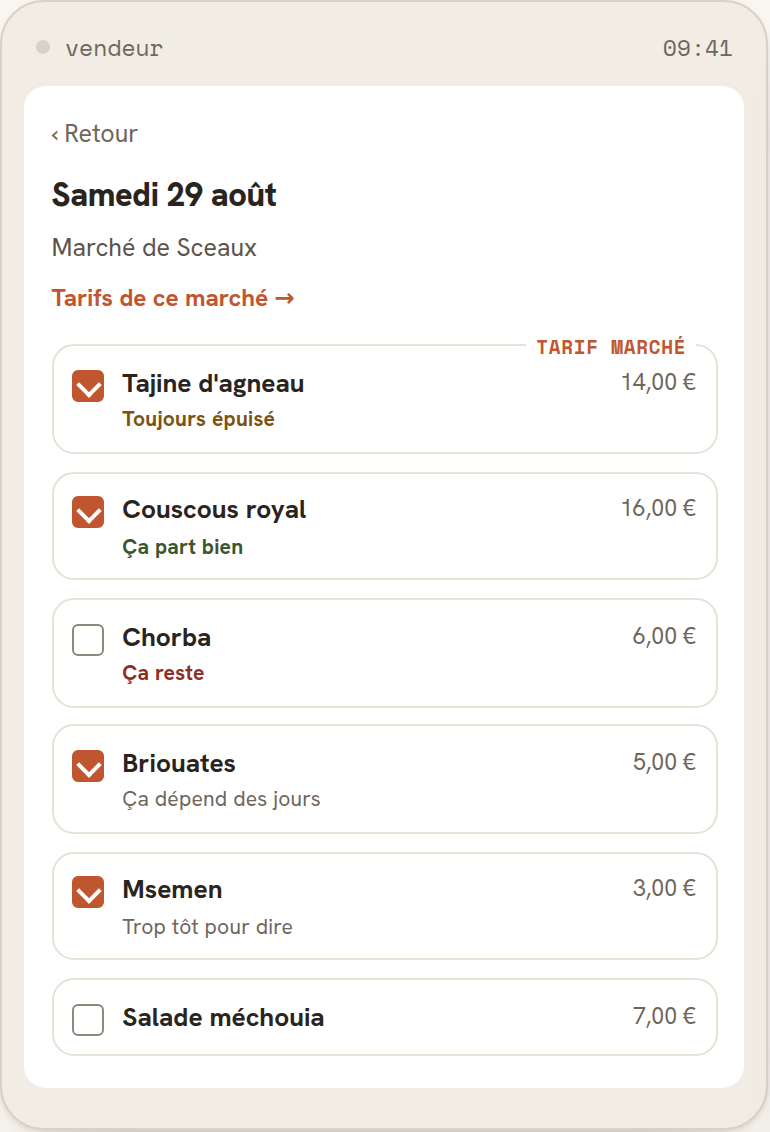
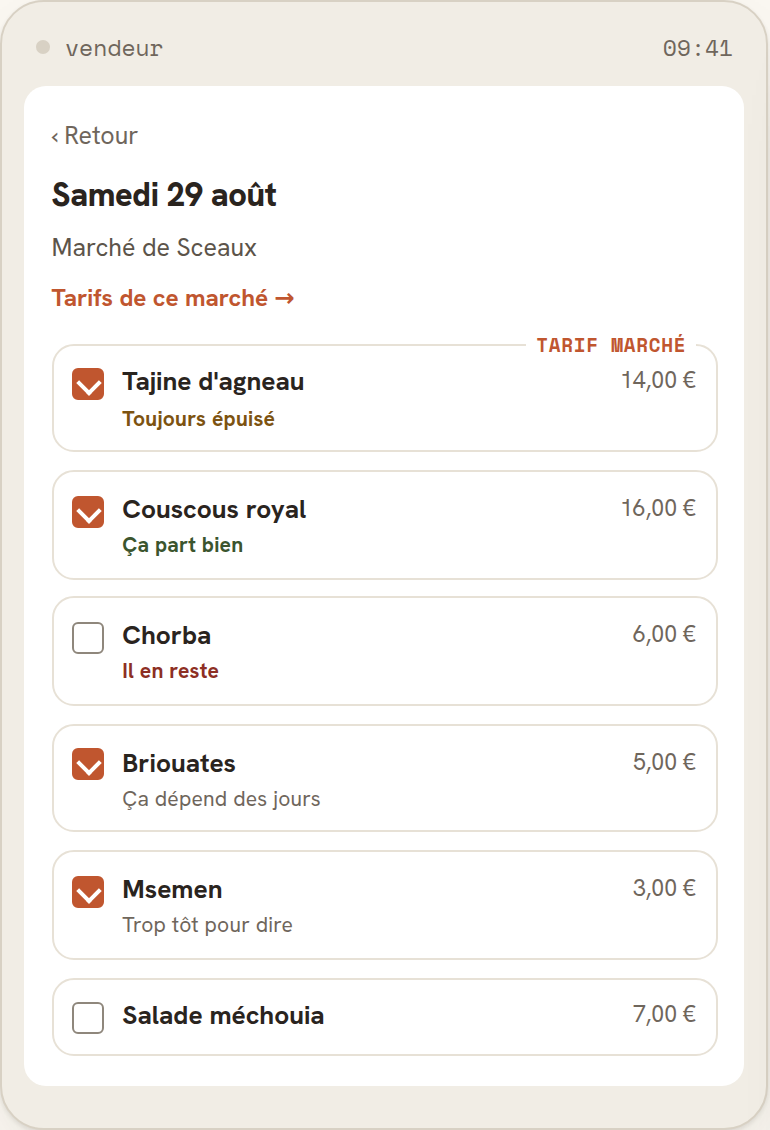
Rename the leftovers pile: Ça reste → Il en reste
Ça reste never named the thing it was about. Rester on its own reads as to
stay or to remain the same, so the heading could be taken for "it's still
fine" — the opposite of what it means — and it mentions no leftovers at all,
which are the entire fact. Il en reste is the sentence a vendor actually says
about a tray that came home, and en does the naming without repeating the dish.

The closed PileName union earned its keep: changing the name in pile.ts broke
the compile on the tone map in menu-editor.ts, so there was no way to ship the
copy half-renamed.

The short streak token stays Reste. It sits directly under the full phrase,
which is what makes the abbreviation learnable (decision 13), and the streak
is unbuilt anyway — it went with the deferred surfaces.

Design screens re-rendered rather than left contradicting the shipped copy;
the inlined woff2 held, so both faces are real in the PNGs.

Claude-Session: https://claude.ai/code/session_01T47hxcDBmopHNUoEhkVYLa

diff --git a/docs/design/ce-qui-se-vend-screens.html b/docs/design/ce-qui-se-vend-screens.html
@@ -309,7 +309,7 @@
                 <span class="box"></span>
                 <span class="name">Chorba</span>
                 <span class="price">6,00&nbsp;€</span>
-                <span class="hint hint-re">Ça reste</span>
+                <span class="hint hint-re">Il en reste</span>
               </li>
               <li class="row">
                 <span class="box on"></span>
@@ -381,7 +381,7 @@
             </div>
 
             <div class="pile p-reste">
-              <div class="pile-head"><span class="pile-name">Ça reste</span><span class="pile-count">1 plat</span></div>
+              <div class="pile-head"><span class="pile-name">Il en reste</span><span class="pile-count">1 plat</span></div>
               <div class="pile-rule"></div>
               <div class="dish">
                 <div class="dish-top"><span class="dish-name">Chorba</span><span class="dish-price">6,00&nbsp;€</span></div>
@@ -455,7 +455,7 @@
             <div class="pile p-reste" style="margin-top:.7rem">
               <div class="pile-rule"></div>
               <div class="dish">
-                <div class="market-line"><span class="mk">Marché d'Antony <span class="pr">· 12,50&nbsp;€</span></span><span class="vd" style="color:#8d2f24">Ça reste</span></div>
+                <div class="market-line"><span class="mk">Marché d'Antony <span class="pr">· 12,50&nbsp;€</span></span><span class="vd" style="color:#8d2f24">Il en reste</span></div>
                 <div class="streak">
                   <span class="chip c-re">Reste</span><span class="chip c-re">Reste</span><span class="chip c-bi">Bien</span><span class="chip c-re">Reste</span>
                   <span class="since">depuis le 19 juil.</span>

diff --git a/apps/vendor-frontend/src/app/market-days/menu-editor.spec.ts b/apps/vendor-frontend/src/app/market-days/menu-editor.spec.ts
@@ -303,8 +303,8 @@ describe('MenuEditor', () => {
   });
 
   // Moins bien vendu is a fair thing to tick once and a scolding thing to read down a
-  // column; Ça reste is what the vendor says out loud about a tray that came home.
-  it('calls a dish that mostly came home Ça reste', async () => {
+  // column; Il en reste is what the vendor says out loud about a tray that came home.
+  it('calls a dish that mostly came home Il en reste', async () => {
     await renderEditor((marketDays, catalogue, prices, record) => {
       marketDays.days.set([day()]);
       catalogue.items.set([item('item-1', 'Bourguignon')]);
@@ -313,7 +313,7 @@ describe('MenuEditor', () => {
       ]);
     });
 
-    expect(screen.getByText('Ça reste')).toBeTruthy();
+    expect(screen.getByText('Il en reste')).toBeTruthy();
   });
 
   // Not a failure to classify but a real finding: this dish rides on weather or crowd, and

diff --git a/apps/vendor-frontend/src/app/selling-record/pile.ts b/apps/vendor-frontend/src/app/selling-record/pile.ts
@@ -10,14 +10,14 @@ import { Bilan } from './selling-record';
 export type PileName =
   | 'Toujours épuisé'
   | 'Ça part bien'
-  | 'Ça reste'
+  | 'Il en reste'
   | 'Ça dépend des jours'
   | 'Trop tôt pour dire';
 
 const NAMES: Record<ItemOutcome, PileName> = {
   sold_out: 'Toujours épuisé',
   did_well: 'Ça part bien',
-  did_not_do_well: 'Ça reste',
+  did_not_do_well: 'Il en reste',
 };
 
 const ENOUGH_TO_CLAIM = 3;

diff --git a/apps/vendor-frontend/src/app/market-days/menu-editor.ts b/apps/vendor-frontend/src/app/market-days/menu-editor.ts
@@ -22,7 +22,7 @@ import { ReopenStand } from './reopen-stand';
 const TONES: Record<PileName, string> = {
   'Toujours épuisé': 'font-bold text-warn',
   'Ça part bien': 'font-bold text-success',
-  'Ça reste': 'font-bold text-danger',
+  'Il en reste': 'font-bold text-danger',
   'Ça dépend des jours': 'text-muted',
   'Trop tôt pour dire': 'text-muted',
 };

diff --git a/docs/BILAN-RETROSPECTIVE-PLAN.md b/docs/BILAN-RETROSPECTIVE-PLAN.md
@@ -64,7 +64,7 @@ named in market French rather than in the form's neutral radio labels:
 |---|---|---|
 | **Toujours épuisé** | ≥3 bilans, `sold_out` in at least half | The form has to say *Épuisé* neutrally; a heading can say what it means |
 | **Ça part bien** | ≥3 bilans, `did_well` in at least half | |
-| **Ça reste** | ≥3 bilans, `did_not_do_well` in at least half | *Moins bien vendu* is a fair thing to tick once and a scolding thing to read down a column. *Ça reste* is what the vendor says out loud about a tray that came home |
+| **Il en reste** | ≥3 bilans, `did_not_do_well` in at least half | *Moins bien vendu* is a fair thing to tick once and a scolding thing to read down a column. *Il en reste* is what the vendor says out loud about a tray that came home. It was **Ça reste** until 2026-08: *ça reste* can be read as *it stays*, or even *it's still fine*, and names no leftovers at all — *il en reste* says the only thing that happened |
 | **Ça dépend des jours** | ≥3 bilans, no outcome reaching half | Not a failure to classify — a real finding. This dish rides on weather or crowd |
 | **Trop tôt pour dire** | 1–2 bilans | Shows its answers, claims nothing |
 
@@ -77,7 +77,7 @@ Ties break toward the most recent bilan. No pile ever shows a percentage or an a
 *Reste* — oldest → newest:
 
 ```
-Ça reste                                                   ← the pile heading
+Il en reste                                                ← the pile heading
   Chorba                                            6,00 €
   Reste · Bien · Reste · Reste           depuis le 12 juil.
 ```
@@ -95,7 +95,7 @@ phone — five *Moins bien vendu* chips wrap to three lines inside a 224 px card
 never the only carrier of its meaning; see decision 14.
 
 **3. The line in the menu editor.** The **pile name alone**, as one `text-xs` line under the
-dish row while the vendor is ticking the menu for that market — *Toujours épuisé*, *Ça reste*.
+dish row while the vendor is ticking the menu for that market — *Toujours épuisé*, *Il en reste*.
 Not the streak: it does not fit (see *Mobile* below), and the split is better design anyway.
 The editor is a decision taken in seconds and the pile is the conclusion; the streak is the
 evidence, and evidence belongs on the page you open when you doubt the conclusion. No
@@ -332,7 +332,7 @@ Settled by grilling. Do not re-litigate without a reason.
 | 5 | **No new read model in slice 1** | Decision 14a named the seam but the fold is a bounded prefix scan on the key migration `0013_market_day_views_key_order` already reordered for exactly this window read. Building the projection first shapes a table around a query whose shape the pilot has not yet moved. **Trigger: the fold shows up in a trace, or the window has to span years** |
 | 6 | **The streak reads oldest → newest** | It is the only element here that can show direction, and direction is what a mean cannot. Reversed, an improving dish reads as a declining one |
 | 7 | **`Ça dépend des jours` is a pile, not a gap** | An inconsistent dish is a real answer — it says *this one rides on the weather, decide on the morning* — and burying it in an *unclassified* bucket would hide the finding that most deserves the vendor's own judgment |
-| 8 | **Group headings speak market French; the bilan form stays neutral** | Opposite constraints. A radio label is a verdict the vendor is being asked to pronounce on their own morning, so it must not editorialise; a heading is describing a pile of trays, and *Ça reste* is both kinder and more precise than *Moins bien vendu* five times down a list |
+| 8 | **Group headings speak market French; the bilan form stays neutral** | Opposite constraints. A radio label is a verdict the vendor is being asked to pronounce on their own morning, so it must not editorialise; a heading is describing a pile of trays, and *Il en reste* is both kinder and more precise than *Moins bien vendu* five times down a list |
 | 9 | **`Ce qui se vend`, not `Ce qui marche`** | *Ce qui marche* is the idiom and would be the better phrase anywhere else. On a screen carrying *marché* six times it is a collision, and the pun costs more than the idiom is worth |
 | 10 | **Nothing on the bilan screen, nothing on the dashboard** | Anchoring on one, noise on the other — see *Deliberately not built* above |
 | 11 | **The editor line gates the spinner with the other three feeds** | The menu editor already waits on days, catalogue and prices so no row paints a wrong price for a frame. A fourth feed landing late would reflow every row under the vendor's thumb, which is the same failure the dashboard's `loaded()` gate exists to stop |
@@ -346,6 +346,7 @@ Settled by grilling. Do not re-litigate without a reason.
 | 19 | **`pile.ts` gets no spec of its own; the piles are driven through the menu editor** | The frontend tests pure derivations through the component that uses them, without exception: `quote` — this same component, this same shape — has no spec, nor do `hasLiveScreen`, `formatEuros` or `longDate`. This plan previously called for an `it.each` table over the rule's boundaries and cited `local-date`, `local-time` and `email`; those are backend, and the whole vendor frontend contains exactly one `it.each`. Reading the boundary off the rendered line is also where the right answer is visible — *Trop tôt pour dire* appearing under the row, not a string returned from a function |
 | 20 | **The pile line's colour is decoration, and is not tested** | Every pile says its word, so the tint only speeds up scanning (WCAG 1.4.1, decision 14) — the three piles that make a claim are coloured and bold, the two that withhold one stay muted and regular. The existing `--mm-warn` / `--mm-success` / `--mm-danger` all clear 4.5:1 on `--mm-surface` at this size, so the mockup's darkened variants were not needed as tokens. No spec asserts it: the frontend has zero `toHaveClass` assertions, and a test on a class would pin the decoration and not the meaning. `PileName` is a closed union so the tone map is exhaustive at compile time |
 | 21 | **A recorded bilan stales the cached set; it never patches it** | The set is cached like prices and the catalogue — every menu editor opened asks for it, and it is the largest of that screen's four feeds — and a bilan is the only thing that moves it. Patching would mean turning outcomes-keyed-by-item into this shape on the client, which is a second implementation of the handler's fold and free to drift from the one the API answers with. The next screen refetches |
+| 22 | **The *did_not_do_well* pile is *Il en reste*, not *Ça reste*** | *Ça reste* was the original and it is too vague to survive a phone screen: *rester* alone reads as *to stay* or *to remain the same*, so the heading could be taken for *it's still fine* — the opposite of what it means — and it never names the leftovers, which are the entire fact. *Il en reste* is the sentence a vendor actually says about a tray that came home, and `en` does the naming without repeating the dish. The short streak token stays **Reste**: it sits under the full phrase, which is what makes it learnable (decision 13), and the abbreviation is unambiguous once the heading above has said it |
 
 ## Deferred — trigger-gated
 
